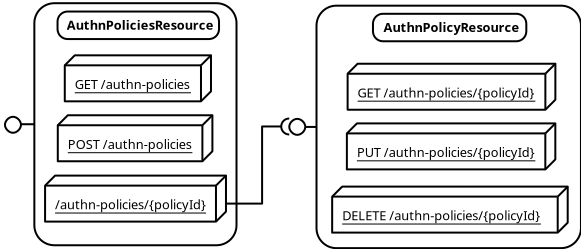
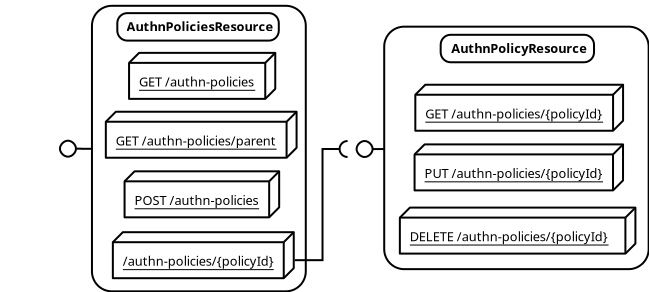
Update REST API implementation

diff --git a/sections/6-implementation.tex b/sections/6-implementation.tex
@@ -120,7 +120,8 @@ It provides the isolation of storage operations and user interaction and complie
 
 Possible operations on the \textit{AuthnPoliciesResource} request handler class with the additional redirection:
 \begin{itemize}
-    \item \textit{GET /authn-policies} -- retrieve all authentication policies in JSON\footnote{JavaScript Object Notation} format. 
+    \item \textit{GET /authn-policies} -- retrieve all authentication policies in JSON\footnote{JavaScript Object Notation} format.
+    \item \textit{GET /authn-policies/parent} -- retrieve the parent authentication policy in JSON format.
     \item \textit{POST /authn-policies} -- create a new authentication policy with attributes defined as JSON in the request body.  
     \item \textit{/authn-policies/{policyId}} -- Redirects requests to the \textit{AuthnPolicyResource} request handler class.
 \end{itemize}
